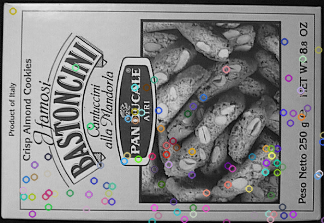
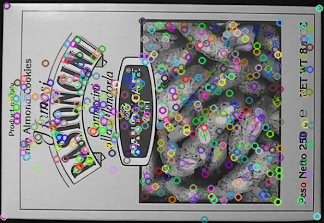
#12 Finished the sift algorithm Still missing comments for the last part

diff --git a/sift_utils.py b/sift_utils.py
@@ -214,7 +214,7 @@ def plot_gaussian_pyramid(gaussian_pyramid: np.ndarray, save_path=None):
     
     
 ########################################################################################
-#####                  2 - Keypoint localization - Section 3/4/5                   #####
+#####                   2 - Keypoint localization - Section 3/4                    #####
 # At each candidate location, a detailed model is fit to determine location and scale. #
 # Keypoints are selected based on measures of their stability.                         #
 ########################################################################################
@@ -405,7 +405,7 @@ def accurate_keypoint_localization(center_y: int, center_x: int, image_idx: int,
             break
         
         # Extremum doesn't lie closest to the current center pixel, thus we update the center pixel for the next iteration
-        center_x, center_y, image_idx = int(round(extremum_update[0])), int(round(extremum_update[1])), int(round(extremum_update[2]))
+        center_x, center_y, image_idx = int(np.round(extremum_update[0])), int(np.round(extremum_update[1])), int(np.round(extremum_update[2]))
         
         # Check if the new center pixel is within the image
         if (center_y < image_border_width or center_y >= image_shape[0] - image_border_width 
@@ -448,7 +448,7 @@ def accurate_keypoint_localization(center_y: int, center_x: int, image_idx: int,
             keypoint.pt = ((center_x + extremum_update[0]) * (2 ** octave_idx), (center_y + extremum_update[1]) * (2 ** octave_idx))
             
             # opencv docs: Octave (pyramid layer) from which the keypoint has been extracted 
-            keypoint.octave = octave_idx + image_idx * (2 ** 8) + int(round((extremum_update[2] + 0.5) * 255)) * (2 ** 16)
+            keypoint.octave = octave_idx + image_idx * (2 ** 8) + int(np.round((extremum_update[2] + 0.5) * 255)) * (2 ** 16)
             
             # opencv docs: Diameter of the meaningful keypoint neighborhood 
             # Computing the absolute scale of the keypoint
@@ -514,6 +514,16 @@ def get_scale_space_extrema(gaussian_images, dog_images, s, sigma, image_border_
     return keypoints
 
 
+
+#########################################################################################
+#####                    3 - Orientation assignment - Section 5                     #####
+# One or more orientations are assigned to each keypoint location based on local image  #
+# gradient directions. All future operations are performed on image data that has been  #
+# transformed relative to the assigned orientation, scale, and location for each        #
+# feature, thereby providing invariance to these transformations.                       #
+#########################################################################################
+
+
 def orientation_assignment(keypoint: cv2.KeyPoint, octave_idx: int, gaussian_image: np.ndarray, radius_factor=3, num_bins=36, peak_ratio=0.8, scale_factor=1.5):
     """Assigns orientation(s) to a keypoint based on the local image gradient directions.
     Parameters:
@@ -543,7 +553,7 @@ def orientation_assignment(keypoint: cv2.KeyPoint, octave_idx: int, gaussian_ima
 
     # The radius determines the region around the keypoint to be considered for orientation calculation.
     # The radius is based on the scale of the keypoint and a factor (typically 3, but not described in the paper).
-    radius = int(round(radius_factor * scale))
+    radius = int(np.round(radius_factor * scale))
 
     # The weight factor is used to compute a Gaussian weight for each pixel in the region,
     # prioritizing pixels closer to the keypoint center. This helps give more importance to gradients near the keypoint.
@@ -560,13 +570,13 @@ def orientation_assignment(keypoint: cv2.KeyPoint, octave_idx: int, gaussian_ima
     # Loop over the neighborhood around the keypoint (based on the radius) to compute gradient magnitudes and orientations.
     for i in range(-radius, radius + 1):
         # Calculate the y-coordinate in the scale space (adjust for the current octave).
-        region_y = int(round(keypoint.pt[1] / np.float32(2 ** octave_idx))) + i
+        region_y = int(np.round(keypoint.pt[1] / np.float32(2 ** octave_idx))) + i
 
         # Ensure the y-coordinate is within the image bounds.
         if region_y > 0 and region_y < image_shape[0] - 1:
             for j in range(-radius, radius + 1):
                 # Calculate the x-coordinate in the scale space (adjust for the current octave).
-                region_x = int(round(keypoint.pt[0] / np.float32(2 ** octave_idx))) + j
+                region_x = int(np.round(keypoint.pt[0] / np.float32(2 ** octave_idx))) + j
                 
                 # Ensure the x-coordinate is within the image bounds.
                 if region_x > 0 and region_x < image_shape[1] - 1:
@@ -587,7 +597,7 @@ def orientation_assignment(keypoint: cv2.KeyPoint, octave_idx: int, gaussian_ima
                     weight = np.exp(weight_factor * (i ** 2 + j ** 2))
                     
                     # Map the gradient orientation into one of the histogram bins (36 bins for 360 degrees).
-                    histogram_index = int(round(gradient_orientation * num_bins / 360.))
+                    histogram_index = int(np.round(gradient_orientation * num_bins / 360.))
                     
                     # Add the weighted gradient magnitude to the corresponding histogram bin.
                     raw_histogram[histogram_index % num_bins] += weight * gradient_magnitude
@@ -646,6 +656,180 @@ def orientation_assignment(keypoint: cv2.KeyPoint, octave_idx: int, gaussian_ima
     return keypoints_with_orientations
 
 
+##############################
+# Duplicate keypoint removal #
+##############################
+
+def compareKeypoints(keypoint1: cv2.KeyPoint, keypoint2: cv2.KeyPoint):
+    """Return True if keypoint1 is less than keypoint2
+    """
+    if keypoint1.pt[0] != keypoint2.pt[0]:
+        return keypoint1.pt[0] - keypoint2.pt[0]
+    if keypoint1.pt[1] != keypoint2.pt[1]:
+        return keypoint1.pt[1] - keypoint2.pt[1]
+    if keypoint1.size != keypoint2.size:
+        return keypoint2.size - keypoint1.size
+    if keypoint1.angle != keypoint2.angle:
+        return keypoint1.angle - keypoint2.angle
+    if keypoint1.response != keypoint2.response:
+        return keypoint2.response - keypoint1.response
+    if keypoint1.octave != keypoint2.octave:
+        return keypoint2.octave - keypoint1.octave
+    return keypoint2.class_id - keypoint1.class_id
+
+def removeDuplicateKeypoints(keypoints: list[cv2.KeyPoint]):
+    """Sort keypoints and remove duplicate keypoints
+    """
+    import functools
+    
+    if len(keypoints) < 2:
+        return keypoints
+
+    keypoints.sort(key=functools.cmp_to_key(compareKeypoints))
+    unique_keypoints = [keypoints[0]]
+
+    for next_keypoint in keypoints[1:]:
+        next_keypoint: cv2.KeyPoint
+        last_unique_keypoint = unique_keypoints[-1]
+        if last_unique_keypoint.pt[0] != next_keypoint.pt[0] or \
+           last_unique_keypoint.pt[1] != next_keypoint.pt[1] or \
+           last_unique_keypoint.size != next_keypoint.size or \
+           last_unique_keypoint.angle != next_keypoint.angle:
+            unique_keypoints.append(next_keypoint)
+    return unique_keypoints
+
+#############################
+# Keypoint scale conversion #
+#############################
+
+def convertKeypointsToInputImageSize(keypoints: list[cv2.KeyPoint]):
+    """Convert keypoint point, size, and octave to input image size
+    """
+    converted_keypoints = []
+    for keypoint in keypoints:
+        keypoint: cv2.KeyPoint
+        keypoint.pt = tuple(0.5 * np.array(keypoint.pt))
+        keypoint.size *= 0.5
+        keypoint.octave = (keypoint.octave & ~255) | ((keypoint.octave - 1) & 255)
+        converted_keypoints.append(keypoint)
+    return converted_keypoints
+
+
+########################################################################################
+#####                  4 - Keypoint descriptor - Section 6                         #####
+#                                                                                      #
+########################################################################################
+
+def unpackOctave(keypoint: cv2.KeyPoint):
+    """Compute octave, layer, and scale from a keypoint
+    """
+    octave = keypoint.octave & 255
+    layer = (keypoint.octave >> 8) & 255
+    if octave >= 128:
+        octave = octave | -128
+    scale = 1 / np.float32(1 << octave) if octave >= 0 else np.float32(1 << -octave)
+    return octave, layer, scale
+
+def generateDescriptors(keypoints: list[cv2.KeyPoint], gaussian_images: np.ndarray, window_width=4, num_bins=8, scale_multiplier=3, descriptor_max_value=0.2):
+    """Generate descriptors for each keypoint
+    """
+
+    descriptors = []
+
+    for keypoint in keypoints:
+        octave, layer, scale = unpackOctave(keypoint)
+        gaussian_image = gaussian_images[octave + 1, layer]
+        num_rows, num_cols = gaussian_image.shape
+        point = np.round(scale * np.array(keypoint.pt)).astype('int')
+        bins_per_degree = num_bins / 360.
+        angle = 360. - keypoint.angle
+        cos_angle = np.cos(np.deg2rad(angle))
+        sin_angle = np.sin(np.deg2rad(angle))
+        weight_multiplier = -0.5 / ((0.5 * window_width) ** 2)
+        row_bin_list = []
+        col_bin_list = []
+        magnitude_list = []
+        orientation_bin_list = []
+        histogram_tensor = np.zeros((window_width + 2, window_width + 2, num_bins))   # first two dimensions are increased by 2 to account for border effects
+
+        # Descriptor window size (described by half_width) follows OpenCV convention
+        hist_width = scale_multiplier * 0.5 * scale * keypoint.size
+        half_width = int(np.round(hist_width * np.sqrt(2) * (window_width + 1) * 0.5))   # sqrt(2) corresponds to diagonal length of a pixel
+        half_width = int(min(half_width, np.sqrt(num_rows ** 2 + num_cols ** 2)))     # ensure half_width lies within image
+
+        for row in range(-half_width, half_width + 1):
+            for col in range(-half_width, half_width + 1):
+                row_rot = col * sin_angle + row * cos_angle
+                col_rot = col * cos_angle - row * sin_angle
+                row_bin = (row_rot / hist_width) + 0.5 * window_width - 0.5
+                col_bin = (col_rot / hist_width) + 0.5 * window_width - 0.5
+                if row_bin > -1 and row_bin < window_width and col_bin > -1 and col_bin < window_width:
+                    window_row = int(np.round(point[1] + row))
+                    window_col = int(np.round(point[0] + col))
+                    if window_row > 0 and window_row < num_rows - 1 and window_col > 0 and window_col < num_cols - 1:
+                        dx = gaussian_image[window_row, window_col + 1] - gaussian_image[window_row, window_col - 1]
+                        dy = gaussian_image[window_row - 1, window_col] - gaussian_image[window_row + 1, window_col]
+                        gradient_magnitude = np.sqrt(dx * dx + dy * dy)
+                        gradient_orientation = np.rad2deg(np.arctan2(dy, dx)) % 360
+                        weight = np.exp(weight_multiplier * ((row_rot / hist_width) ** 2 + (col_rot / hist_width) ** 2))
+                        row_bin_list.append(row_bin)
+                        col_bin_list.append(col_bin)
+                        magnitude_list.append(weight * gradient_magnitude)
+                        orientation_bin_list.append((gradient_orientation - angle) * bins_per_degree)
+
+        for row_bin, col_bin, magnitude, orientation_bin in zip(row_bin_list, col_bin_list, magnitude_list, orientation_bin_list):
+            # Smoothing via trilinear interpolation
+            # Notations follows https://en.wikipedia.org/wiki/Trilinear_interpolation
+            # Note that we are really doing the inverse of trilinear interpolation here (we take the center value of the cube and distribute it among its eight neighbors)
+            row_bin_floor, col_bin_floor, orientation_bin_floor = np.floor([row_bin, col_bin, orientation_bin]).astype(int)
+            row_fraction, col_fraction, orientation_fraction = row_bin - row_bin_floor, col_bin - col_bin_floor, orientation_bin - orientation_bin_floor
+            if orientation_bin_floor < 0:
+                orientation_bin_floor += num_bins
+            if orientation_bin_floor >= num_bins:
+                orientation_bin_floor -= num_bins
+
+            c1 = magnitude * row_fraction
+            c0 = magnitude * (1 - row_fraction)
+            c11 = c1 * col_fraction
+            c10 = c1 * (1 - col_fraction)
+            c01 = c0 * col_fraction
+            c00 = c0 * (1 - col_fraction)
+            c111 = c11 * orientation_fraction
+            c110 = c11 * (1 - orientation_fraction)
+            c101 = c10 * orientation_fraction
+            c100 = c10 * (1 - orientation_fraction)
+            c011 = c01 * orientation_fraction
+            c010 = c01 * (1 - orientation_fraction)
+            c001 = c00 * orientation_fraction
+            c000 = c00 * (1 - orientation_fraction)
+
+            histogram_tensor[row_bin_floor + 1, col_bin_floor + 1, orientation_bin_floor] += c000
+            histogram_tensor[row_bin_floor + 1, col_bin_floor + 1, (orientation_bin_floor + 1) % num_bins] += c001
+            histogram_tensor[row_bin_floor + 1, col_bin_floor + 2, orientation_bin_floor] += c010
+            histogram_tensor[row_bin_floor + 1, col_bin_floor + 2, (orientation_bin_floor + 1) % num_bins] += c011
+            histogram_tensor[row_bin_floor + 2, col_bin_floor + 1, orientation_bin_floor] += c100
+            histogram_tensor[row_bin_floor + 2, col_bin_floor + 1, (orientation_bin_floor + 1) % num_bins] += c101
+            histogram_tensor[row_bin_floor + 2, col_bin_floor + 2, orientation_bin_floor] += c110
+            histogram_tensor[row_bin_floor + 2, col_bin_floor + 2, (orientation_bin_floor + 1) % num_bins] += c111
+
+        descriptor_vector = histogram_tensor[1:-1, 1:-1, :].flatten()  # Remove histogram borders
+        # Threshold and normalize descriptor_vector
+        threshold = np.linalg.norm(descriptor_vector) * descriptor_max_value
+        descriptor_vector[descriptor_vector > threshold] = threshold
+        descriptor_vector /= max(np.linalg.norm(descriptor_vector), float_tolerance)
+        # Multiply by 512, np.round, and saturate between 0 and 255 to convert from float32 to unsigned char (OpenCV convention)
+        descriptor_vector = np.round(512 * descriptor_vector)
+        descriptor_vector[descriptor_vector < 0] = 0
+        descriptor_vector[descriptor_vector > 255] = 255
+        descriptors.append(descriptor_vector)
+    return np.array(descriptors, dtype='float32')
+
+
+
+
+
+
+
 
 
 
@@ -674,7 +858,7 @@ if __name__ == "__main__":
     print(f"pyramid lengths: {len(g_pyramid)}, {len(g_pyramid[0])}")
     print(g_pyramid[7][4].shape)
     
-    plot_gaussian_pyramid(g_pyramid, save_path="resources/gaussian_pyramid.png")
+    # plot_gaussian_pyramid(g_pyramid, save_path="resources/gaussian_pyramid.png")
     
     # print("g_pyramid ", g_pyramid[0][1][2])
     # print("g_pyramid ", g_pyramid[0][1].shape)
@@ -685,7 +869,7 @@ if __name__ == "__main__":
     print(f"dog lengths: {len(dog_pyramid)}, {len(dog_pyramid[0])}")
     print(dog_pyramid[5][2].shape)
     
-    plot_gaussian_pyramid(dog_pyramid, save_path="resources/dog_pyramid.png")
+    # plot_gaussian_pyramid(dog_pyramid, save_path="resources/dog_pyramid.png")
     
     # print("dog_image ", dog_pyramid[0][1][2])
     # print("dog_image ", dog_pyramid[0][1].shape)
@@ -695,6 +879,7 @@ if __name__ == "__main__":
     keys_w_orients = get_scale_space_extrema(g_pyramid, dog_pyramid, s, sigma=sigma, image_border_width=3)
     print(len(keys_w_orients))
     print(keys_w_orients[0])
+    
     
     box_copy = cv2.cvtColor(box.copy(), cv2.COLOR_GRAY2BGR)
     

diff --git a/sift.py b/sift.py
@@ -1,0 +1,75 @@
+import numpy as np
+import matplotlib.pyplot as plt
+import cv2
+import math
+
+import sift_utils
+
+
+
+def sift(image: np.ndarray, sigma: float = 1.6, s: int = 3, image_border_width: int = 5):
+    """Compute keypoints and keypoint descriptors using Scale-invariant Feature Transform
+
+    Args:
+        img (np.ndarray): Image
+        
+
+    Returns:
+        _type_: _description_
+    """
+    
+    # Image preprocessing
+    # - Double image in size, increasing number of stable keypoints
+    image = image.astype(np.float32)
+    base_image = sift_utils.image_preprocessing(image, sigma=sigma)
+    
+    
+    ### 1 - Scale-space extrema detection
+    # The first stage of computation searches over all scales and image locations. 
+    # It is implemented efficiently by using a difference-of-Gaussian function to 
+    # identify potential interest points that are invariant to scale and orientation.
+    
+    n_octaves = sift_utils.get_num_octaves(image_shape=base_image.shape, min_allowed_dim=3)
+    gaussian_kernel_list = sift_utils.get_gaussian_kernels(sigma=sigma, s=s)
+    gaussian_pyramid = sift_utils.construct_gaussian_pyramid(base_image, n_octaves, gaussian_kernel_list)
+    dog_pyramid = sift_utils.construct_DoG_pyramid(gaussian_pyramid)
+    
+    
+    ### 2/3 - Keypoint localization and Orientation assignment
+    # At each candidate location, a detailed model is fit to determine location and scale. 
+    # Keypoints are selected based on measures of their stability.
+    
+    # One or more orientations are assigned to each keypoint location based on local image
+    # gradient directions. All future operations are performed on image data that has been
+    # transformed relative to the assigned orientation, scale, and location for each feature,
+    # thereby providing invariance to these transformations.
+    
+    keypoints_with_orientations = sift_utils.get_scale_space_extrema(gaussian_pyramid, dog_pyramid, s, sigma, image_border_width)
+    
+    ## Remove duplicate keypoints and convert to input image size
+    keypoints = sift_utils.removeDuplicateKeypoints(keypoints_with_orientations)
+    keypoints = sift_utils.convertKeypointsToInputImageSize(keypoints)
+    
+    ### 4 - Keypoint descriptor
+    descriptors = sift_utils.generateDescriptors(keypoints, gaussian_pyramid)
+    
+    return keypoints, descriptors
+
+
+
+if __name__ == "__main__":
+    print(__name__)
+    
+    box = cv2.imread('/home/dreezy/azureDev/repos/ipcv-mini-project/resources/box.png', 0)
+    
+    kps, dcrpts = sift(image=box)
+    print(dcrpts[0])
+    
+    
+    # Show image
+    box_copy = cv2.cvtColor(box.copy(), cv2.COLOR_GRAY2BGR)
+    cv2.drawKeypoints(box_copy, kps, outImage=box_copy)
+    cv2.imshow("box", box_copy)
+    cv2.imwrite("resources/box_keypoints.png", box_copy)
+    cv2.waitKey(0)
+    cv2.destroyAllWindows()
